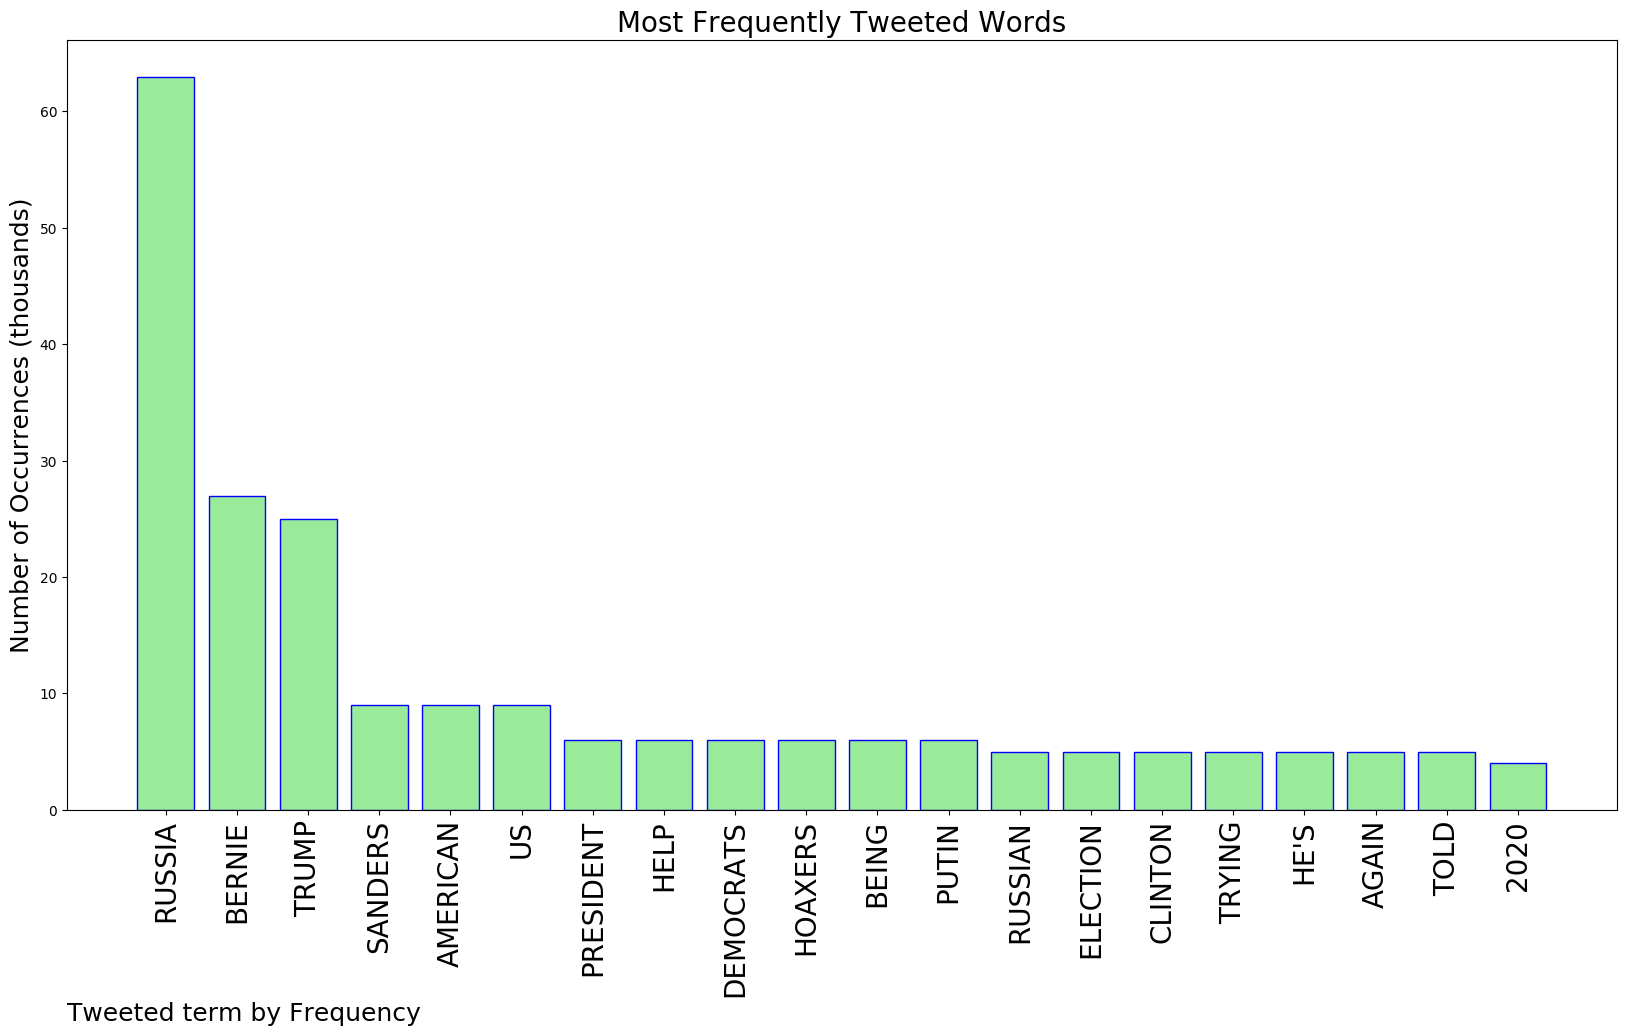
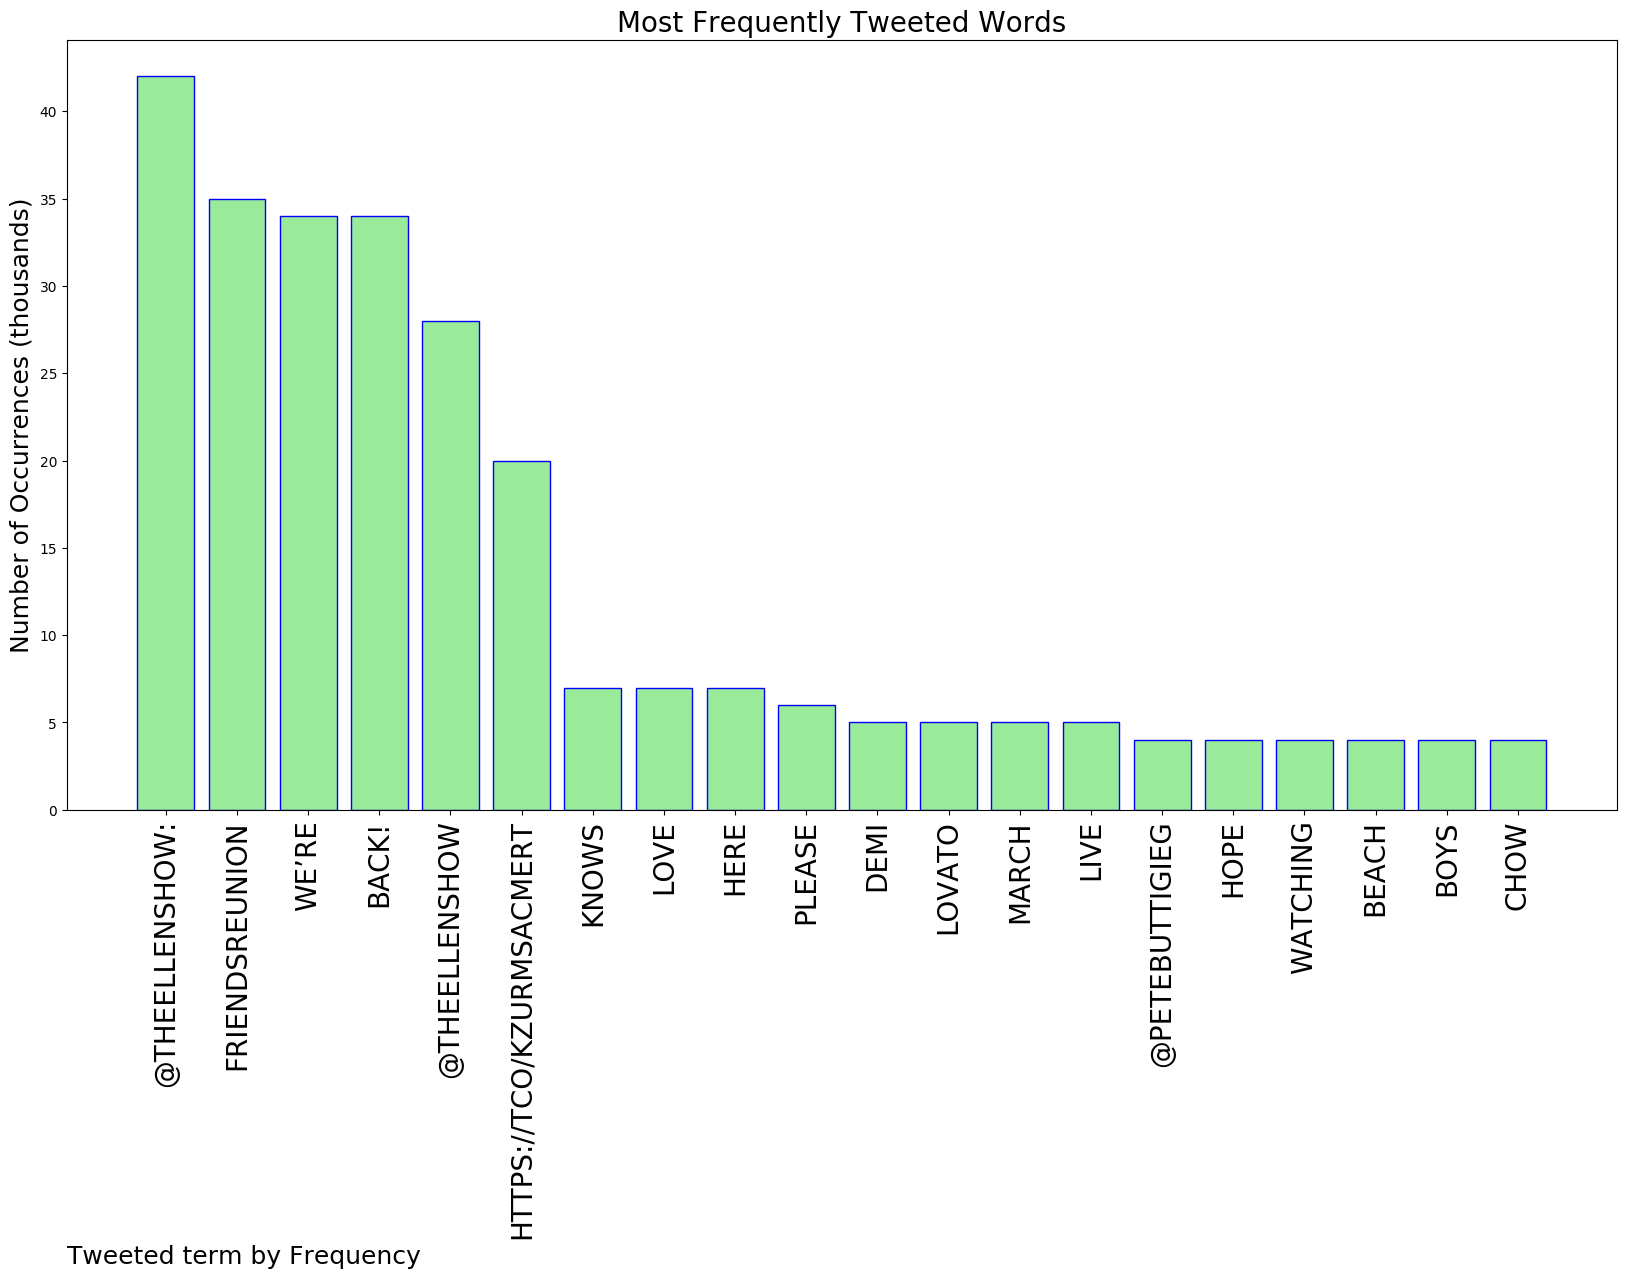
more

diff --git a/README.md b/README.md
@@ -1,5 +1,5 @@
 # MURCHIE85 TWITTER PROCESSING 
-&#x1F34E; **TOPIC = "Russia"**
+&#x1F34E; **TOPIC = "TheEllenShow"**
 
 ## AUTOMATED RESEARCH SUMMARY
 
@@ -15,55 +15,50 @@
 
 |                **Sample-Tweets**        |
 | :-------------: |
-| <div class="alert alert-block alert-warning">RT @BEVHOWARD40: Nunes vows to sue over report on briefing https://t.co/z6LiddCwTf</div> <div class="alert alert-block alert-success">Who loves to "RUSSIA RUSSIA RUSSIA"???They are the communists. They are the traitors. Who gives a F 'bout russia.… https://t.co/Gj73kBpjKB</div> <div class="alert alert-block alert-info">Russia Working To Boost Bernie Sanders’ Campaign, According To Sanders’ ... https://t.co/4agTRjBG8S via @YouTube</div> |
-The most popular user is: **H47Steven**
-<div class="alert alert-block alert-danger"> RT @charliekirk11: Did you know:
-
-Russia donated over $145,000,000 to the Clinton Foundation
-
-Hillary Clinton sold 20% America’s Uranium to…</div>
+| <div class="alert alert-block alert-warning">@TheEllenShow Luv it. Cant stop watching. Sooooo cute</div> <div class="alert alert-block alert-success">RT @TheEllenShow: We’re back! #FriendsReunion https://t.co/kzUrMsACMe</div> <div class="alert alert-block alert-info">.@TheEllenShow Watching you &amp; listening to .@ladygaga are the only things that make me smile, &amp; I’m so proud to be… https://t.co/hlslABRtY4</div> |
+The most popular user is: **AlanN20457069**
+<div class="alert alert-block alert-danger"> RT @TheEllenShow: We’re back! #FriendsReunion https://t.co/kzUrMsACMe</div>
 
 ## RELATED METRICS<br>
 | Metric | Value |
 | ------------- | ------------- |
-| #1 Most tweeted to  | **realDonaldTrump** |
-| #2 Most tweeted to  | **charliekirk11** |
-| #3 Most tweeted to  | **DevinNunes** |
-| NewProfiles (less than 10 days) | 1.0%  |
-| Tweeters with < 10 followers  | 3.0%|
+| #1 Most tweeted to  | **TheEllenShow** |
+| #2 Most tweeted to  | **PeteButtigieg** |
+| #3 Most tweeted to  | **astridsingsjazz** |
+| NewProfiles (less than 10 days) | 3.0%  |
+| Tweeters with < 10 followers  | 15.0%|
 | Tweeters with > 1000000 followers  | 0.0%  |
 
-<br>
+
+
 ## MOST POPULAR TWEET TERMS 
-<br>
+
+
 | Popularity Rank  | Term |
+
 | ------------- | ------------- |
-| first  | **RUSSIA**  |
-| second  | **BERNIE**  |
-| third  | **TRUMP** |
-| fourth  | **SANDERS**  |
-| fifth  | **AMERICAN**  |
+| first  | **@THEELLENSHOW:**  |
+| second  | **FRIENDSREUNION**  |
+| third  | **WE’RE** |
+| fourth  | **BACK!**  |
+| fifth  | **@THEELLENSHOW**  |
 
 
 ## Twitter Bio Analysis![image](BIO.png)
 ### SENTIMENT ANALYSIS
 ![image](sentiment.png)
-VIEWS WERE : **SUBJECTIVE**  (40.0%) & **NEGATIVELY-SUBJECTIVE** (26.67%) **OBJECTIVE** (33.33%)
+VIEWS WERE : **SUBJECTIVE**  (26.67%) & **NEGATIVELY-SUBJECTIVE** (6.67%) **OBJECTIVE** (66.67%)
 
 ### TWEET SAMPLE 
 Random value picked from array: 
 
-<div class="alert alert-block alert-info">RT @BEVHOWARD40: Nunes vows to sue over report on briefing https://t.co/z6LiddCwTf</div>
+<div class="alert alert-block alert-info">@TheEllenShow Luv it. Cant stop watching. Sooooo cute</div>
 
 ### MOST RETWEETED 
 
-The most retweeted user is: **H47Steven**
+The most retweeted user is: **AlanN20457069**
 
-<div class="alert alert-block alert-danger"> RT @charliekirk11: Did you know:
-
-Russia donated over $145,000,000 to the Clinton Foundation
-
-Hillary Clinton sold 20% America’s Uranium to…</div>
+<div class="alert alert-block alert-danger"> RT @TheEllenShow: We’re back! #FriendsReunion https://t.co/kzUrMsACMe</div>
 
 ### CONCLUSION & EXTERNAL ANALYSIS
 
